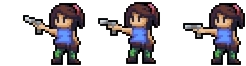
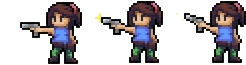
changed pictures and animation plays correctly now

diff --git a/assets/game-innaPostac.js b/assets/game-innaPostac.js
@@ -61,7 +61,6 @@ function create()
     player = this.physics.add.sprite(50, 100, 'playerIdle');
     player.body.setCollideWorldBounds(true);
     player.body.setVelocityY(200);
-    player.body.setSize(45, 65)
 
     //creating platforms
     platforms = this.physics.add.staticGroup();
@@ -96,12 +95,12 @@ function create()
     );
 
     this.anims.create({
-        key: "idleRight",
-        frames: [{key: "playerIdle", frame: 1 }],
-        frameRate: 5,
-        repeat: -1
-    }
-);
+            key: "idleRight",
+            frames: [{key: "playerIdle", frame: 1 }],
+            frameRate: 5,
+            repeat: -1
+        }
+    );
 
     this.anims.create({
             key: "rightMovement",
@@ -117,22 +116,22 @@ function create()
             key: "shootingLeft",
             frames: this.anims.generateFrameNumbers('playerShootingLeft', {
                 start: 0,
-                end: 2,
+                end: 1,
             }),
-            frameRate: 20,
+            frameRate: 10,
             repeat: -1
         }
     );
     this.anims.create({
-        key: "shootingRight",
-        frames: this.anims.generateFrameNumbers('playerShootingRight', {
-            start: 0,
-            end: 2,
-        }),
-        frameRate: 20,
-        repeat: 0
-    }
-);
+            key: "shootingRight",
+            frames: this.anims.generateFrameNumbers('playerShootingRight', {
+                start: 0,
+                end: 1,
+            }),
+            frameRate: 10,
+            repeat: -1
+        }
+    );
 }
 
 function update()
@@ -151,6 +150,9 @@ function update()
     }
     else
     {
+        if(playerControlKeys.space.isDown)
+            playShootingAnimation();
+        else
         if(playerFacingLeft)
             player.anims.play("idleLeft", true);
         else
@@ -164,10 +166,18 @@ function update()
         player.setVelocityY(jumpVelocity)
     }
 
+    playShootingAnimation();
+}
+
+function playShootingAnimation()
+{
     if(playerControlKeys.space.isDown)
     {
         if(playerFacingLeft)
+        {
+            console.log("here")
             player.anims.play("shootingLeft", true);
+        }
         else
             player.anims.play("shootingRight", true);
     }
